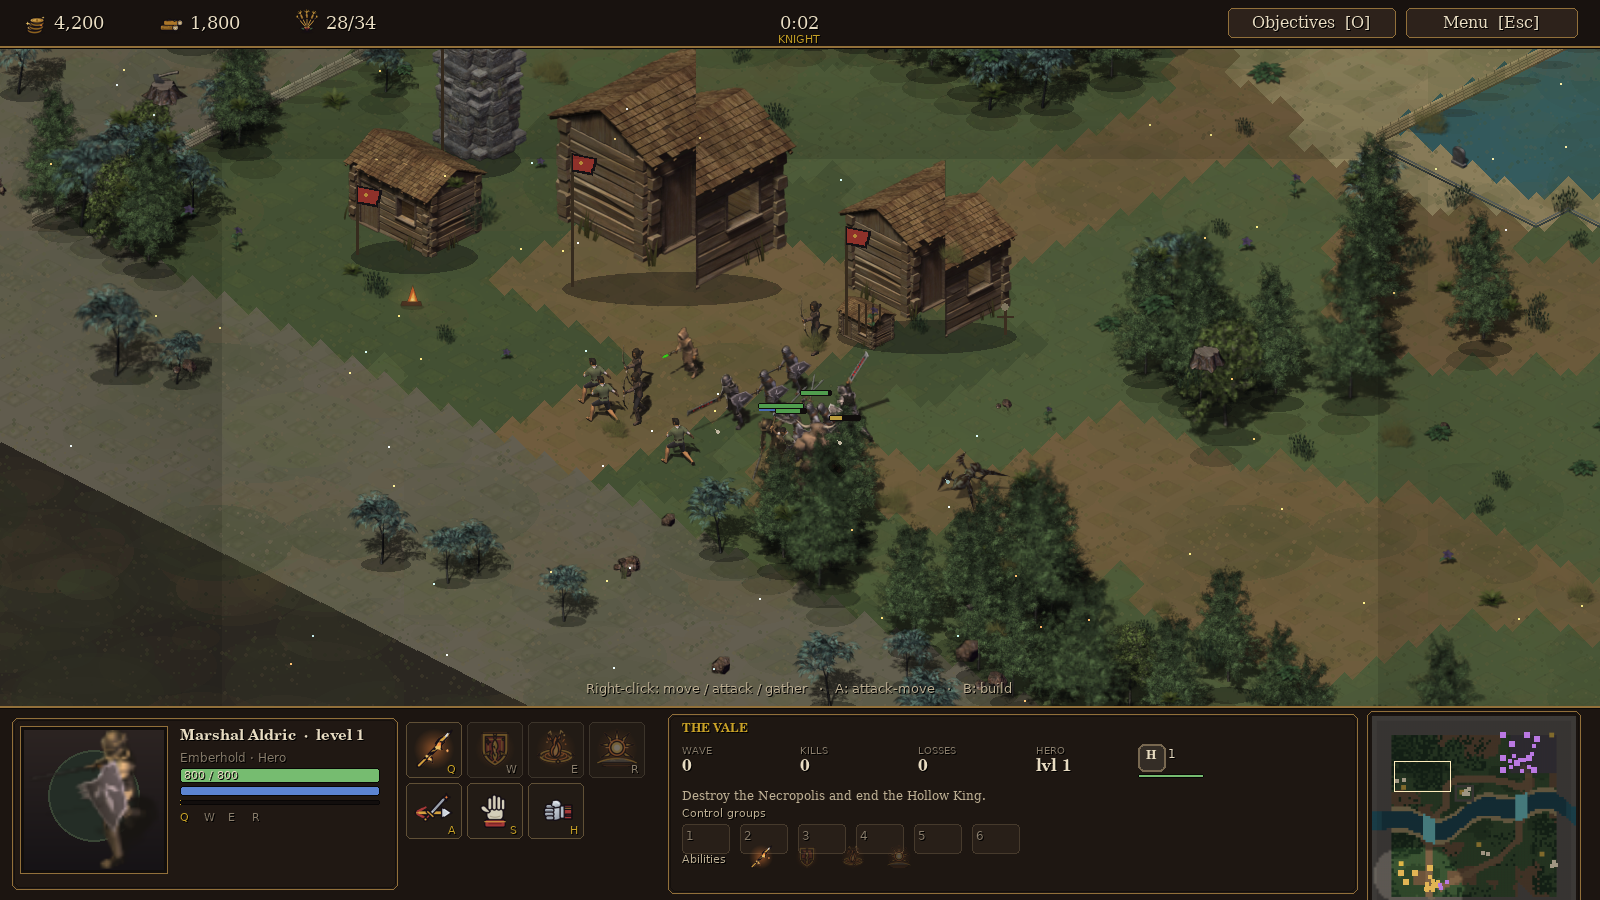
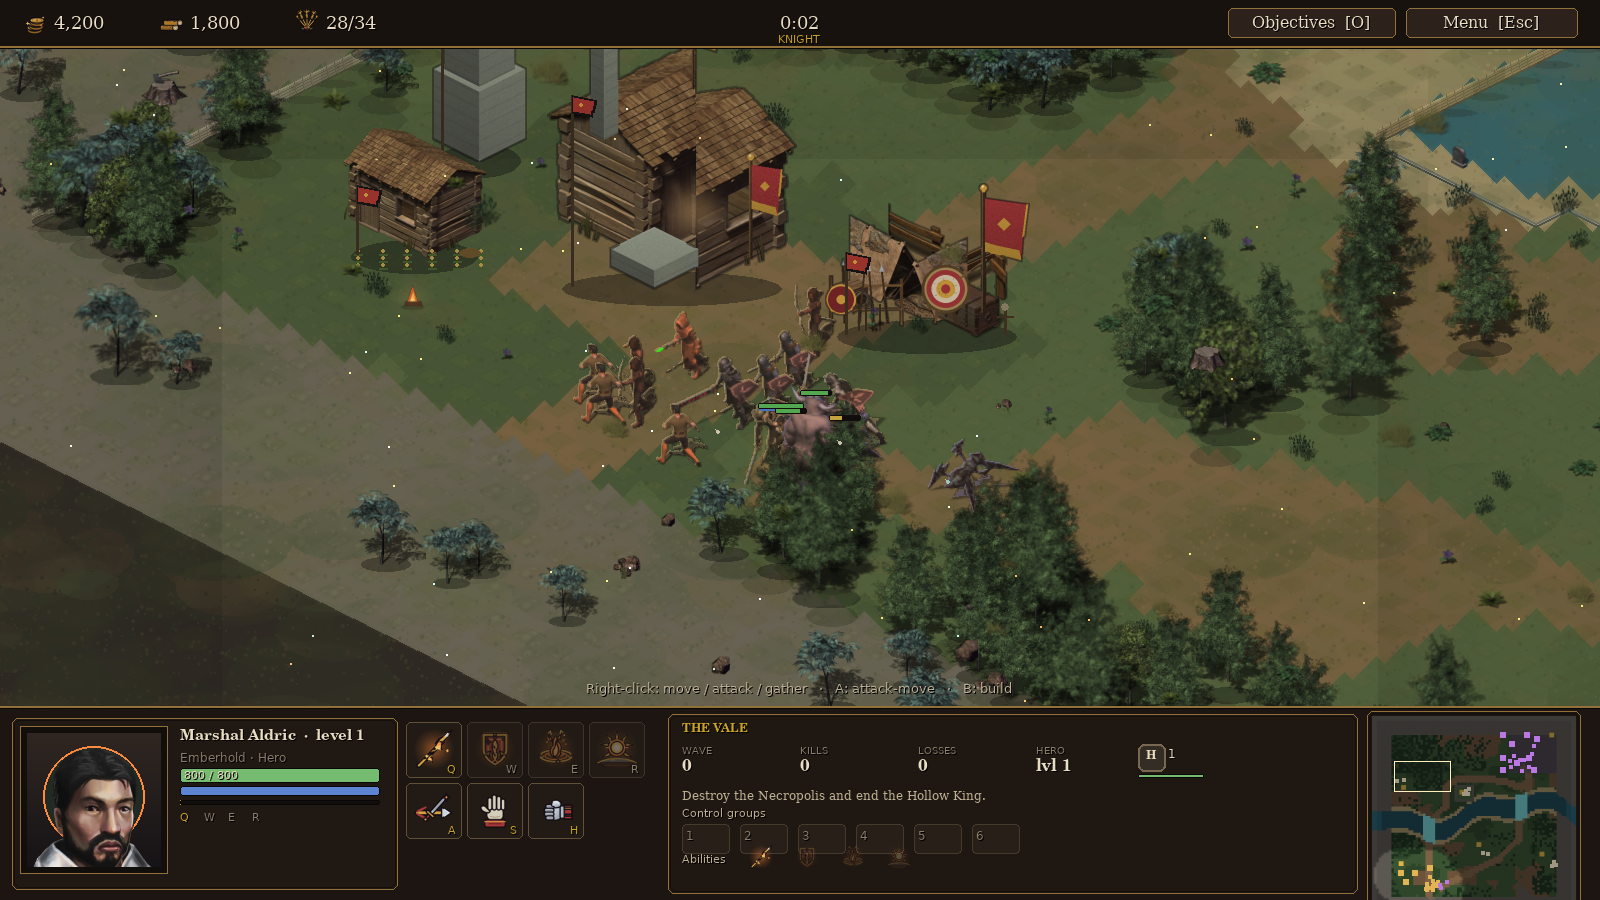
Give Flare units a warm/cold faction read
- Player cloth/shields tinted ember-warm; enemy packed sheets tinted violet
- Body/steel stays neutral; rim light follows faction
- Measured footman (93.7,72.8,60.8) vs ghoul (87.9,70.6,79.8), R-B split ~41
- Start/mission framing and v2 townhall/barracks/tower already in prior commits

diff --git a/emberfall/src/flare_units.py b/emberfall/src/flare_units.py
@@ -54,6 +54,12 @@ UNIT_SCALE = {
 TINT = {
     "hero": (1.0, 0.9, 0.62),
 }
+TEAM_TINT = {
+    PLAYER: (1.0, 0.66, 0.55),     # warm ember cloth
+    ENEMY: (0.72, 0.72, 1.0),      # cold violet cloth
+    NEUTRAL: (1.0, 1.0, 1.0),
+}
+TEAM_CLOTH = ("cloth_", "leather_", "mage_", "shield", "hood")
 
 
 def parse_def(path):
@@ -175,10 +181,10 @@ class FlareUnits:
             return self.cache[key]
         d = DIRS[facing % 4]
         if rig in AVATARS:
-            surf = self._compose_avatar(rig, d, anim, frame)
+            surf = self._compose_avatar(rig, d, anim, frame, team)
             ax, ay = 64, 96
         elif rig in self.enemies:
-            surf, ax, ay = self._compose_enemy(rig, d, anim, frame)
+            surf, ax, ay = self._compose_enemy(rig, d, anim, frame, team)
         else:
             return None
         sc = UNIT_SCALE.get(rig, 0.85)
@@ -220,7 +226,7 @@ class FlareUnits:
             name = SECT.get(anim, "stance")
         return name
 
-    def _compose_avatar(self, rig, direction, anim, frame):
+    def _compose_avatar(self, rig, direction, anim, frame, team=PLAYER):
         W, H, ax, ay = self._avatar_bounds()
         s = pygame.Surface((W, H), pygame.SRCALPHA)
         ranged = self.ranged.get(rig) in ("shoot",) or rig in ("archer", "priest")
@@ -256,11 +262,15 @@ class FlareUnits:
                 part = img.subsurface(pygame.Rect(x, y, w, h)).copy()
                 part = _tint(part, (0.78, 0.76, 0.72))
                 s.blit(part, (int(dx), int(dy)))
+            elif ln.startswith(TEAM_CLOTH):
+                part = img.subsurface(pygame.Rect(x, y, w, h)).copy()
+                part = _tint(part, TEAM_TINT.get(team, TEAM_TINT[NEUTRAL]))
+                s.blit(part, (int(dx), int(dy)))
             else:
                 s.blit(img, (int(dx), int(dy)), pygame.Rect(x, y, w, h))
         return s
 
-    def _compose_enemy(self, rid, direction, anim, frame):
+    def _compose_enemy(self, rid, direction, anim, frame, team=ENEMY):
         W, H, ax, ay, img = self._enemy_bounds(rid)
         d = self.edefs[rid]
         sec = d.get(self._section_for(None, anim, rid in ("fiend", "necromancer", "revenant"))) or d.get("stance")
@@ -275,4 +285,6 @@ class FlareUnits:
         if rect:
             x, y, w, h, ox, oy = rect
             s.blit(img, (ax - ox, ay - oy), pygame.Rect(x, y, w, h))
+        if team == ENEMY:
+            s.fill((212, 205, 255, 255), special_flags=pygame.BLEND_RGBA_MULT)
         return s, ax, ay
